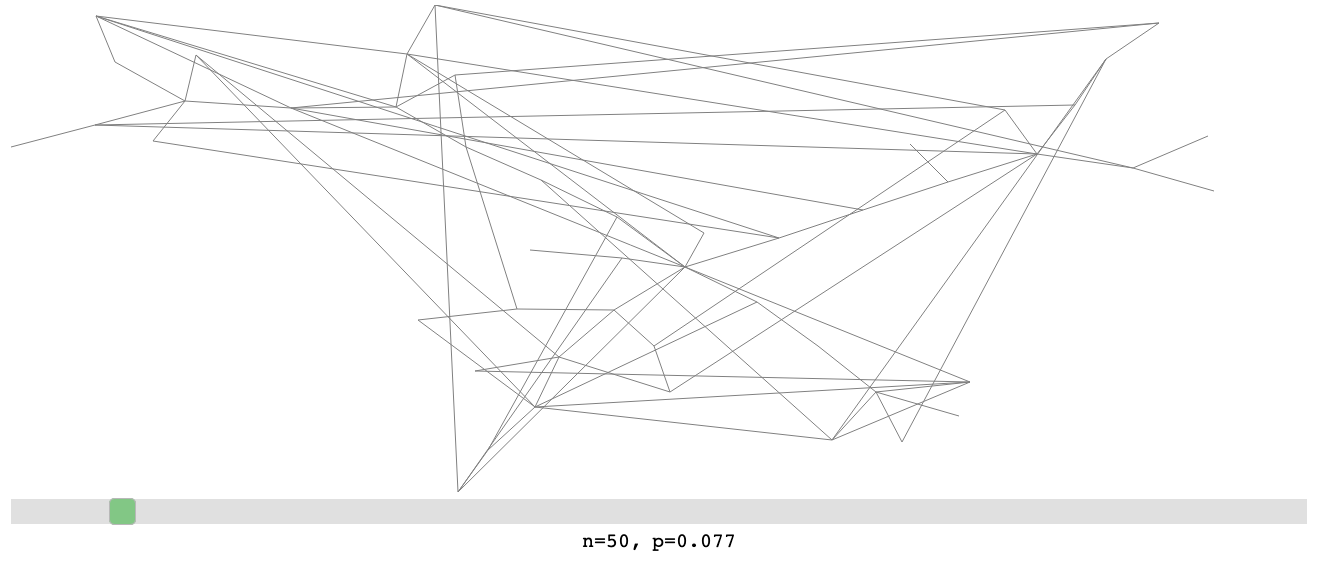
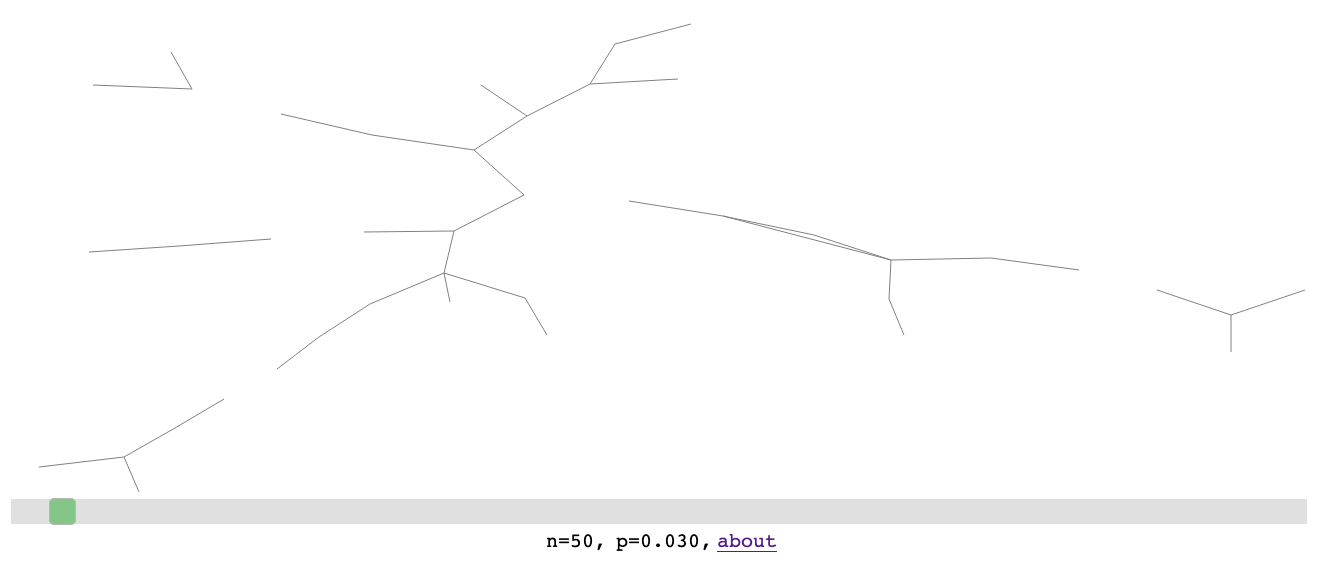
Improved project description

diff --git a/projects.html b/projects.html
@@ -28,15 +28,28 @@
       <div class="tabs">
         <tabbed>
             <div class="tab" data-tabid="1" data-tabname="Random Graph Visualizer">
-              <p> This project is a consolidation and re-write of a few class projects from my coursework at Tufts.
-              It provides visual representations of 3 types of random graphs: the Erdos-Renyi (AKA <i>G(n,p)</i>) model,
-              the Barabasi-Albert model of preferential attachment, and ....
-              Users can adjust parameters of the graph and see the graph evolve in real time to reflect their changes.</p>
-              <br />
-              <p>Credit to L. Cowen, M. Gold, and G. Aloupis for helpful discussions on different pieces of this. </p>
+              <a href="https://pyelir.github.io/rg-visualizer/index.html" target="_blank">
+                <img class="screenshot" src="images/rgvapp.png" width="600" alt="screenshot of app"/>
+              </a>
+              <p> This applet is a consolidation and re-write of multiple projects from my coursework at Tufts.
+              It provides visual representations ofthe Erdos-Renyi <i>G(n,p)</i> model, of a random graph.
+              To do this, it first generates an internal representation of a <i>G(n,p)</i> random graph.
+              To determine how the graph is displayed, it then finds a minimum spanning tree (with edges weighted according to their
+              assigned probabilities) using Prim's algorithm, and then feeds that MST into the Kamada-Kawai force-directed graph-layout algorithm.
+              This helps give a relatively clean and uncluttered view of the graph for low values of <i>p</i>.
+            </p> <br />
+              <p>
+              Users can adjust the value of <i>p</i> using a slider and watch the graph evolve in real time to reflect
+              the change in its parameters.  Future modifications might include enhancements to better visualize zero-one laws
+              (such as the emergence of a giant component) as the parameters shift, as well as a faster layout algorithm to improve performance.</p>
+            </p> <br />
+              <p>The original idea for this project is due to Prof. Lenore Cowen at Tufts, who also suggested computing the layout using an MST.
+                The idea was originally implemented with Michael Gold as a class project using a Jupyter notebook, which allowed us to use the NetworkX package to handle
+                graph representation and layout.  Prof. Greg Aloupis provided help and guidance for a later class project I did on force-directed graph layout algorithms, which helped greatly
+                in writing the code for this project. </p>
             </div>
             <div class="tab" data-tabid="2" data-tabname="Microedit">
-              editor project placeholder.
+              Editor project still under construction.
             </div>
         </tabbed>
       </div>

diff --git a/styles.css b/styles.css
@@ -128,8 +128,10 @@ tabbed {
 
 .tab {
   margin-bottom: auto;
+  padding-bottom: 20px;
   width: 600px;
   margin-top: 50px;
   font-family: Garamond;
+  text-align: center;
   color: #292E1E; /* Pine green*/
 }
